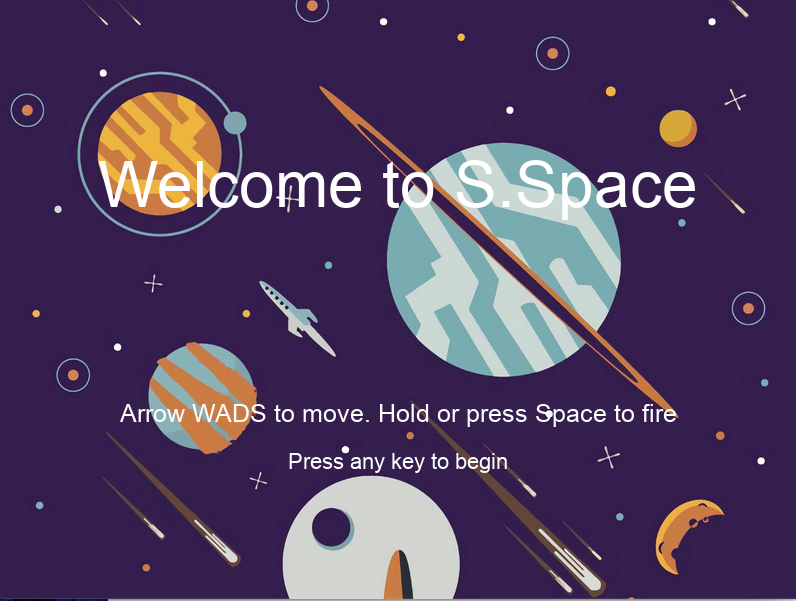
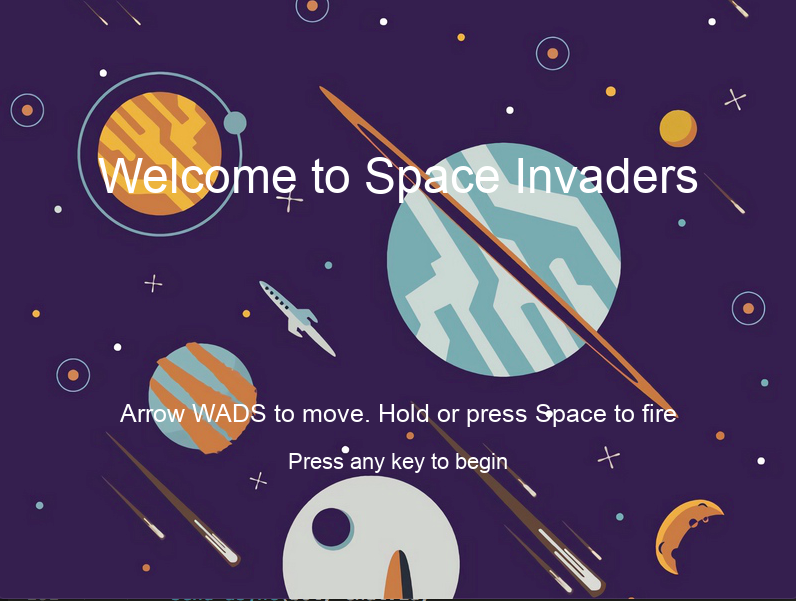
Changed Title

Changed region(s): [[0.1206, 0.2396, 0.8744, 0.3594], [0.0, 0.9884, 1.0, 1.0]]

diff --git a/main.py b/main.py
@@ -16,7 +16,7 @@ RED = (255, 0, 0)
 
 # Initialize the game
 pygame.init()
-pygame.display.set_caption("S.Space")
+pygame.display.set_caption("Space Invaders")
 screen = pygame.display.set_mode((WIDTH, HEIGHT))
 clock = pygame.time.Clock()
 
@@ -417,7 +417,7 @@ def draw_health_bar(surface, x, y, health):
 # Start menu for a new game
 def start_menu():
     screen.blit(background, background_rect)
-    render(screen, "Welcome to S.Space", 64, WIDTH / 2, HEIGHT / 4)
+    render(screen, "Welcome to Space Invaders", 48, WIDTH / 2, HEIGHT / 4)
     render(screen, "Arrow WADS to move. Hold or press Space to fire", 25, WIDTH / 2, HEIGHT / 1.5)
     render(screen, "Press any key to begin", 22, WIDTH / 2, HEIGHT * 3 / 4)
     pygame.display.flip()
